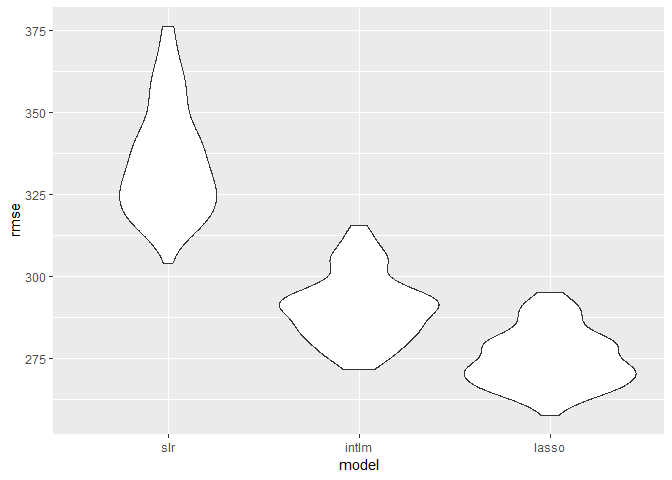
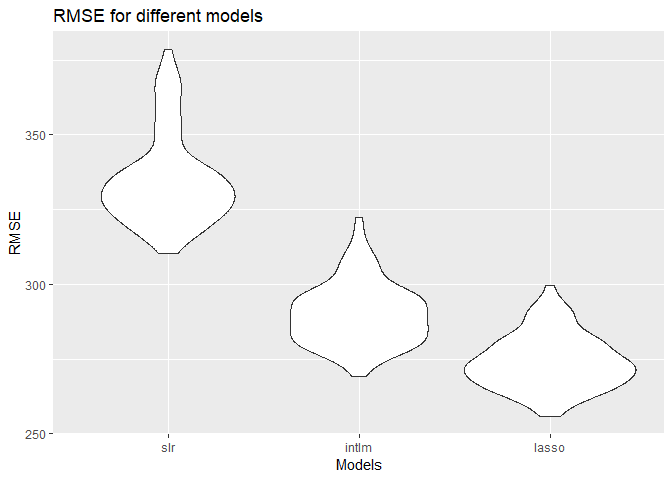
Add plot labels

diff --git a/p8105_hw6_yl3181.md b/p8105_hw6_yl3181.md
@@ -97,8 +97,8 @@ sol_fit = homi %>%
   unnest() %>% 
   filter(term == "bin_racenonwhite") %>% 
   mutate(OR = exp(estimate),
-         lwconf = estimate - std.error * 1.96,
-         upconf = estimate + std.error * 1.96)
+         lwconf = exp(estimate - std.error * 1.96),
+         upconf = exp(estimate + std.error * 1.96))
 
 sol_fit %>% 
   ggplot(aes(x = fct_reorder(city_state, OR), y = OR)) + 
@@ -160,7 +160,7 @@ library(caret)
 ``` r
 # Use 5-fold validation and create the training sets
 
-data_train = trainControl(method="cv", number = 5)
+data_train = trainControl(method = "cv", number = 5)
 
 # Write a function for the lasso model with all the other main effects with preprocessing and cv
 lasso_fun = function(df){
@@ -179,7 +179,12 @@ return(newdf)
 bw %>% 
   add_predictions(lasso_fun(bw)) %>% 
   add_residuals(lasso_fun(bw)) %>% 
-  ggplot(aes(x = pred, y = resid)) + geom_point()
+  ggplot(aes(x = pred, y = resid)) + geom_point() +
+  labs(
+    title = "Prediction vs. Residues",
+    x = "Predictions",
+    y = "Residues"
+  )
 ```
 
 ![](p8105_hw6_yl3181_files/figure-markdown_github/unnamed-chunk-6-1.png)
@@ -204,7 +209,12 @@ cv_data %>%
   gather(key = model, value = rmse) %>% 
   mutate(model = str_replace(model, "rmse_", ""),
          model = fct_inorder(model)) %>% 
-  ggplot(aes(x = model, y = rmse)) + geom_violin()
+  ggplot(aes(x = model, y = rmse)) + geom_violin() +
+  labs(
+    title = "RMSE for different models",
+    x = "Models",
+    y = "RMSE"
+  )
 ```
 
 ![](p8105_hw6_yl3181_files/figure-markdown_github/unnamed-chunk-7-1.png)
